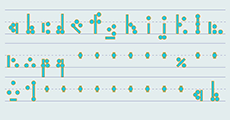
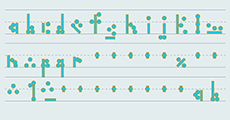
Updated project files

diff --git a/letters.js b/letters.js
@@ -3,7 +3,7 @@ const alphabet = {
       "size" : 50,
       "offsetx" : 0,
       "offsety" : -50,
-      "rotate" : 0,
+      "rotate"  : 0,
       "offset2x" : 50,
       "offset2y" : 100,
       "offset3x" : 50,
@@ -13,9 +13,9 @@ const alphabet = {
   },
   "A": {
       "size" : 90,
-      "offsetx": 30,
-      "offsety": 5,
-      "rotate" : 0,
+      "offsetx" : 30,
+      "offsety" : 5,
+      "rotate"  : 0,
       "offset2x" : 50,
       "offset2y" : 130 -3,
       "offset3x" : 30,
@@ -25,9 +25,9 @@ const alphabet = {
   },
   "B": {
       "size" : 150,
-      "offsetx": -15,
-      "offsety": -40,
-      "rotate" : 0,
+      "offsetx" : -15,
+      "offsety" : -40,
+      "rotate"  : 0,
       "offset2x" : 65,
       "offset2y" : 150,
       "offset3x" : 35,
@@ -37,9 +37,9 @@ const alphabet = {
   },
   "C": {
       "size" : 80,
-      "offsetx": -30,
-      "offsety": 0,
-      "rotate" : 0,
+      "offsetx" : -30,
+      "offsety" : 0,
+      "rotate"  : 0,
       "offset2x" : 60,
       "offset2y" : 120,
       "offset3x" : 60,
@@ -49,9 +49,9 @@ const alphabet = {
   },
   "D": {
       "size" : 150,
-      "offsetx": -10,
-      "offsety": -40,
-      "rotate" : 0,
+      "offsetx" : -10,
+      "offsety" : -40,
+      "rotate"  : 0,
       "offset2x" : 12,
       "offset2y" : 150,
       "offset3x" : 40,
@@ -61,9 +61,9 @@ const alphabet = {
   },
   "E": {
       "size" : 80,
-      "offsetx": -30,
-      "offsety": 15,
-      "rotate" : 135,
+      "offsetx" : -30,
+      "offsety" : 15,
+      "rotate"  : 135,
       "offset2x" : 20,
       "offset2y" : 100,
       "offset3x" : -10,
@@ -73,9 +73,9 @@ const alphabet = {
   },
   "F": {
       "size" : 160,
-      "offsetx": -10-5,
-      "offsety": -30,
-      "rotate" : 0,
+      "offsetx" : -10-5,
+      "offsety" : -30,
+      "rotate"  : 0,
       "offset2x" : 10-5,
       "offset2y" : 100,
       "offset3x" : 70-5,
@@ -85,9 +85,9 @@ const alphabet = {
   },
   "G": {
       "size" : 80,
-      "offsetx": -30,
-      "offsety": 85,
-      "rotate" : 90,
+      "offsetx" : -30,
+      "offsety" : 85,
+      "rotate"  : 90,
       "offset2x" : 50,
       "offset2y" : 140,
       "offset3x" : 10,
@@ -97,9 +97,9 @@ const alphabet = {
   },
   "H": {
       "size" : 160,
-      "offsetx": -30,
-      "offsety": -30,
-      "rotate" : 0,
+      "offsetx" : -30,
+      "offsety" : -30,
+      "rotate"  : 0,
       "offset2x" : 75,
       "offset2y" : 150,
       "offset3x" : 85,
@@ -111,7 +111,7 @@ const alphabet = {
       "size" : 85,
       "offsetx" : 10,
       "offsety" : 5,
-      "rotate" : 0,
+      "rotate"  : 0,
       "offset2x" : 60,
       "offset2y" : 70,
       "offset3x" : 60,
@@ -123,7 +123,7 @@ const alphabet = {
       "size" : 85,
       "offsetx" : 0,
       "offsety" : 5,
-      "rotate" : 0,
+      "rotate"  : 0,
       "offset2x" : 50,
       "offset2y" : 70,
       "offset3x" : 20,
@@ -133,9 +133,9 @@ const alphabet = {
   },
     "K": {
       "size" : 160,
-      "offsetx": -30,
-      "offsety": -30,
-      "rotate" : 0,
+      "offsetx" : -30,
+      "offsety" : -30,
+      "rotate"  : 0,
       "offset2x" : 75,
       "offset2y" : 75,
       "offset3x" : 85,
@@ -156,34 +156,34 @@ const alphabet = {
       "offset4y" : 120
   },
     "M": {
-      "size" : 100,
-      "offsetx" : -40,
-      "offsety" : 0,
-      "rotate" : 0,
-      "offset2x" : 50,
-      "offset2y" : 140,
+      "size" : 120,
+      "offsetx" : 0,
+      "offsety" : 40,
+      "rotate"  : 90,
+      "offset2x" : 0,
+      "offset2y" : 130,
       "offset3x" : 50,
-      "offset3y" : 185,
+      "offset3y" : 155,
       "offset4x" : 100,
-      "offset4y" : 185
+      "offset4y" : 155
   },
     "N": {
       "size" : 100,
       "offsetx" : -40,
       "offsety" : 0,
-      "rotate" : 0,
+      "rotate"  : 0,
       "offset2x" : 40,
       "offset2y" : 140,
       "offset3x" : 65,
       "offset3y" : 160,
-      "offset4x" : 80,
+      "offset4x" : 70,
       "offset4y" : 185
   },
     "O": {
       "size" : 0,
       "offsetx" : 0,
       "offsety" : -10,
-      "rotate" : 0,
+      "rotate"  : 0,
       "offset2x" : 50,
       "offset2y" : 135,
       "offset3x" : 20,
@@ -193,9 +193,9 @@ const alphabet = {
   },
     "P": {
       "size" : 150,
-      "offsetx": -30,
-      "offsety": 55,
-      "rotate" : 0,
+      "offsetx" : -30,
+      "offsety" : 55,
+      "rotate"  : 0,
       "offset2x" : 50,
       "offset2y" : 148,
       "offset3x" : 20,
@@ -205,9 +205,9 @@ const alphabet = {
   },
     "Q": {
       "size" : 150,
-      "offsetx": -10,
-      "offsety": 55,
-      "rotate" : 0,
+      "offsetx" : -10,
+      "offsety" : 55,
+      "rotate"  : 0,
       "offset2x" : 12,
       "offset2y" : 148,
       "offset3x" : 40,
@@ -215,11 +215,23 @@ const alphabet = {
       "offset4x" : 5,
       "offset4y" : 185
   },
+    "R": {
+      "size" : 85,
+      "offsetx" : -50,
+      "offsety" : 5,
+      "rotate"  : 0,
+      "offset2x" : 45,
+      "offset2y" : 145,
+      "offset3x" : 25,
+      "offset3y" : 135,
+      "offset4x" : 45,
+      "offset4y" : 145
+  },
     "X": {
       "size" : 90,
       "offsetx" : 0,
       "offsety" : 10,
-      "rotate" : 45,
+      "rotate"  : 45,
       "offset2x" : 30,
       "offset2y" : 135,
       "offset3x" : 75,
@@ -228,28 +240,40 @@ const alphabet = {
       "offset4y" : 185
   },
     "0": {
-      "size" : 55,
+      "size" : 0,
       "offsetx" : 0,
-      "offsety" : 40,
-      "rotate" : 90,
+      "offsety" : -10-60,
+      "rotate"  : 0,
       "offset2x" : 50,
-      "offset2y" : 50,
-      "offset3x" : 15,
-      "offset3y" : 130,
-      "offset4x" : 85,
-      "offset4y" : 130
+      "offset2y" : 135-60,
+      "offset3x" : 20,
+      "offset3y" : 185-60,
+      "offset4x" : 80,
+      "offset4y" : 185-60
   },
   "1": {
       "size" : 160,
       "offsetx": 30,
       "offsety": -30,
       "rotate" : 0,
-      "offset2x" : 30,
-      "offset2y" : 90,
+      "offset2x" : 52,
+      "offset2y" : 70,
       "offset3x" : 80,
       "offset3y" : 50,
       "offset4x" : 80,
       "offset4y" : 185
+  },
+    "2": {
+      "size" : 90,
+      "offsetx" : 30,
+      "offsety" : 40,
+      "rotate"  : 90,
+      "offset2x" : 10+20-10,
+      "offset2y" : 120-10,
+      "offset3x" : 50+20-10,
+      "offset3y" : 65-10,
+      "offset4x" : 100-10,
+      "offset4y" : 115-10
   }
 
 

diff --git a/draw_letters.js b/draw_letters.js
@@ -1,5 +1,5 @@
 const colorFront  = "#23c7e0";
-const colorStroke = "#f98d00";
+const colorStroke = "#db8a00";
 
 /*
  * Draw the letter given the letterData
@@ -25,14 +25,9 @@ function drawLetter(letterData) {
   let pos3y = letterData["offset3y"];
   let pos4x = letterData["offset4x"];
   let pos4y = letterData["offset4y"];
-  // draw two circles
+  
   angleMode(DEGREES);
   rectMode(CENTER);
-
-  
-
-  
-
 
   push();
     translate(pos1x,pos1y);
@@ -46,4 +41,19 @@ function drawLetter(letterData) {
   ellipse(pos4x,pos4y,35,35);
 
 
+}
+
+function interpolate_letter(percent, oldObj,newObj) {
+  let new_letter = {};
+  new_letter["size"] = map(percent, 0, 100, oldObj["size"], newObj["size"]);
+  new_letter["offsetx"] = map(percent, 0, 100, oldObj["offsetx"], newObj["offsetx"]);
+  new_letter["offsety"] = map(percent, 0, 100, oldObj["offsety"], newObj["offsety"]);
+  new_letter["offset2x"] = map(percent, 0, 100, oldObj["offset2x"], newObj["offset2x"]);
+  new_letter["offset2y"] = map(percent, 0, 100, oldObj["offset2y"], newObj["offset2y"]);
+  new_letter["offset3x"] = map(percent, 0, 100, oldObj["offset3x"], newObj["offset3x"]);
+  new_letter["offset3y"] = map(percent, 0, 100, oldObj["offset3y"], newObj["offset3y"]);
+  new_letter["offset4x"] = map(percent, 0, 100, oldObj["offset4x"], newObj["offset4x"]);
+  new_letter["offset4y"] = map(percent, 0, 100, oldObj["offset4y"], newObj["offset4y"]);
+  new_letter["rotate"] = map(percent, 0, 100, oldObj["rotate"], newObj["rotate"]);
+  return new_letter;
 }

diff --git a/README.md b/README.md
@@ -1,18 +1,21 @@
 ## PS2 MDDN 242 2018
 
-Looked at the 'e' geometry gaps, but left it as is so that it has even spacing between elements
+Made the geometry of '1' conenct, and considered moving the bottom circle up to make the appendage longer, but ended up not keeping that.
 
-Moved the 'k' middle circle. It now looks more like a 'k'.
+Made the stroke a bit darker.
 
-Utilised the third circle to remove gaps on the 'n'.
+Testing several different ways of designing the 'm'. Landed on a version that looks like a "movie clapper".
 
-
-Might end up making a personal rule to use all elements for each letter, just to make the project uniformed.
-
+Changed the '0' to be the same as the 'o', except moved it upwards.
 
 
 
+I feel like not making the previously mentioned uniform rule, because it takes away freedom.
 
+
+Worked on '2' for a bit, and not entirely happy with it, but it is what it is for now.
+
+On the 'N', I moved the bottom circle in a bit, because taking another look at it, I thought it just didn't look right being out so far.
 
 
 
